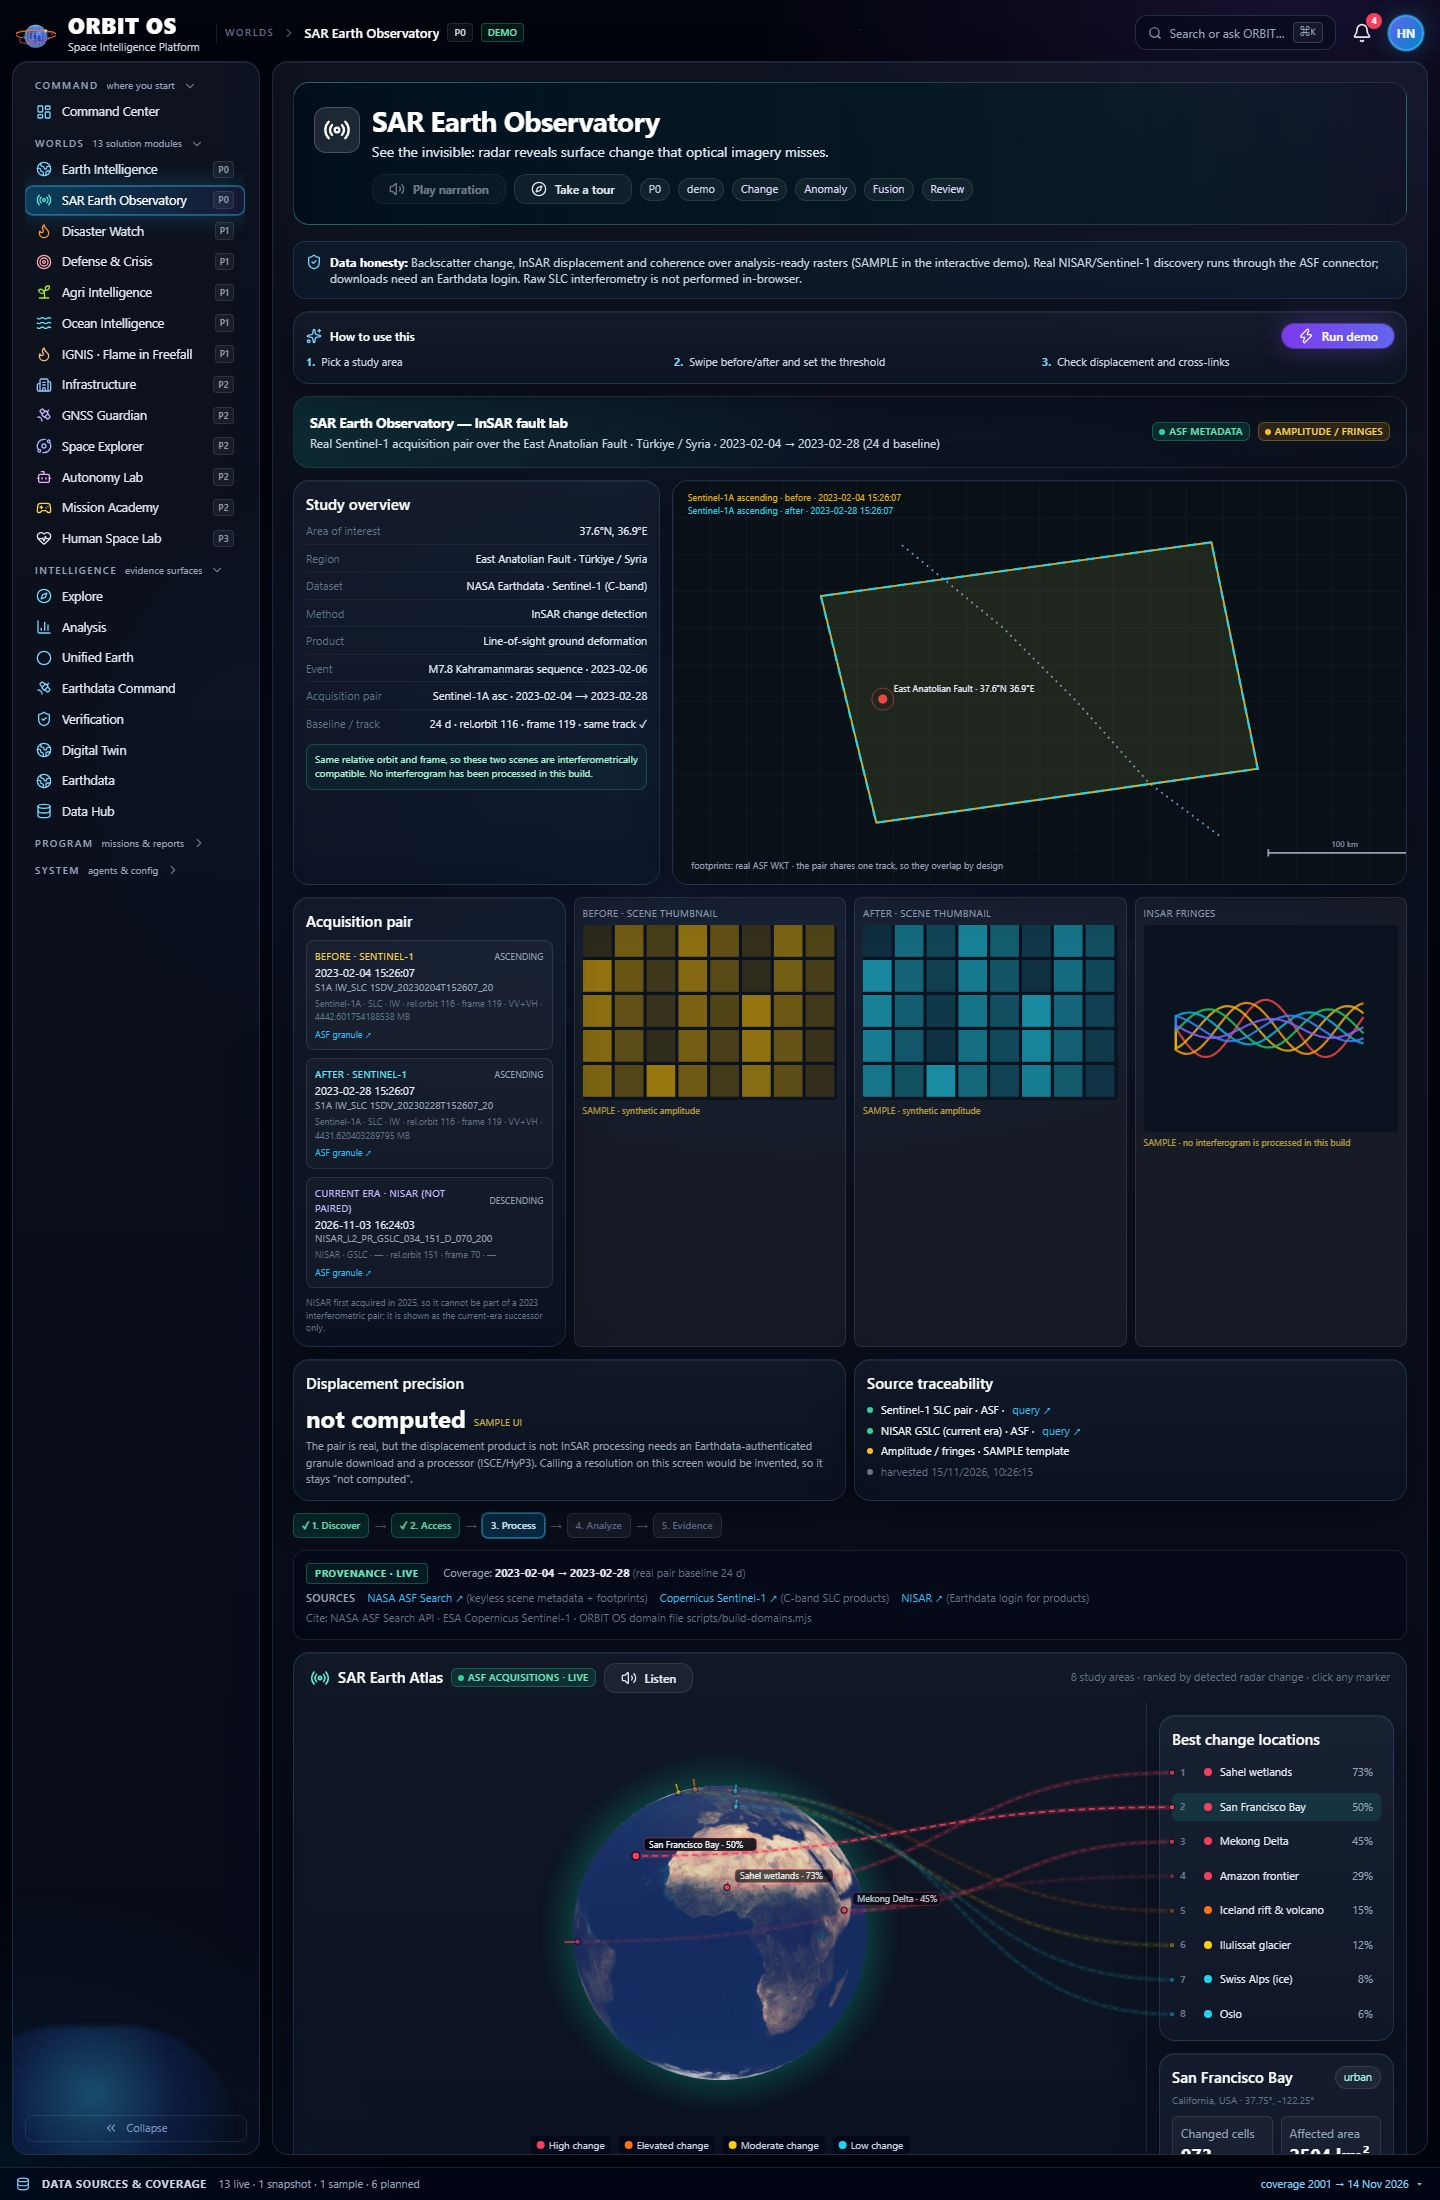
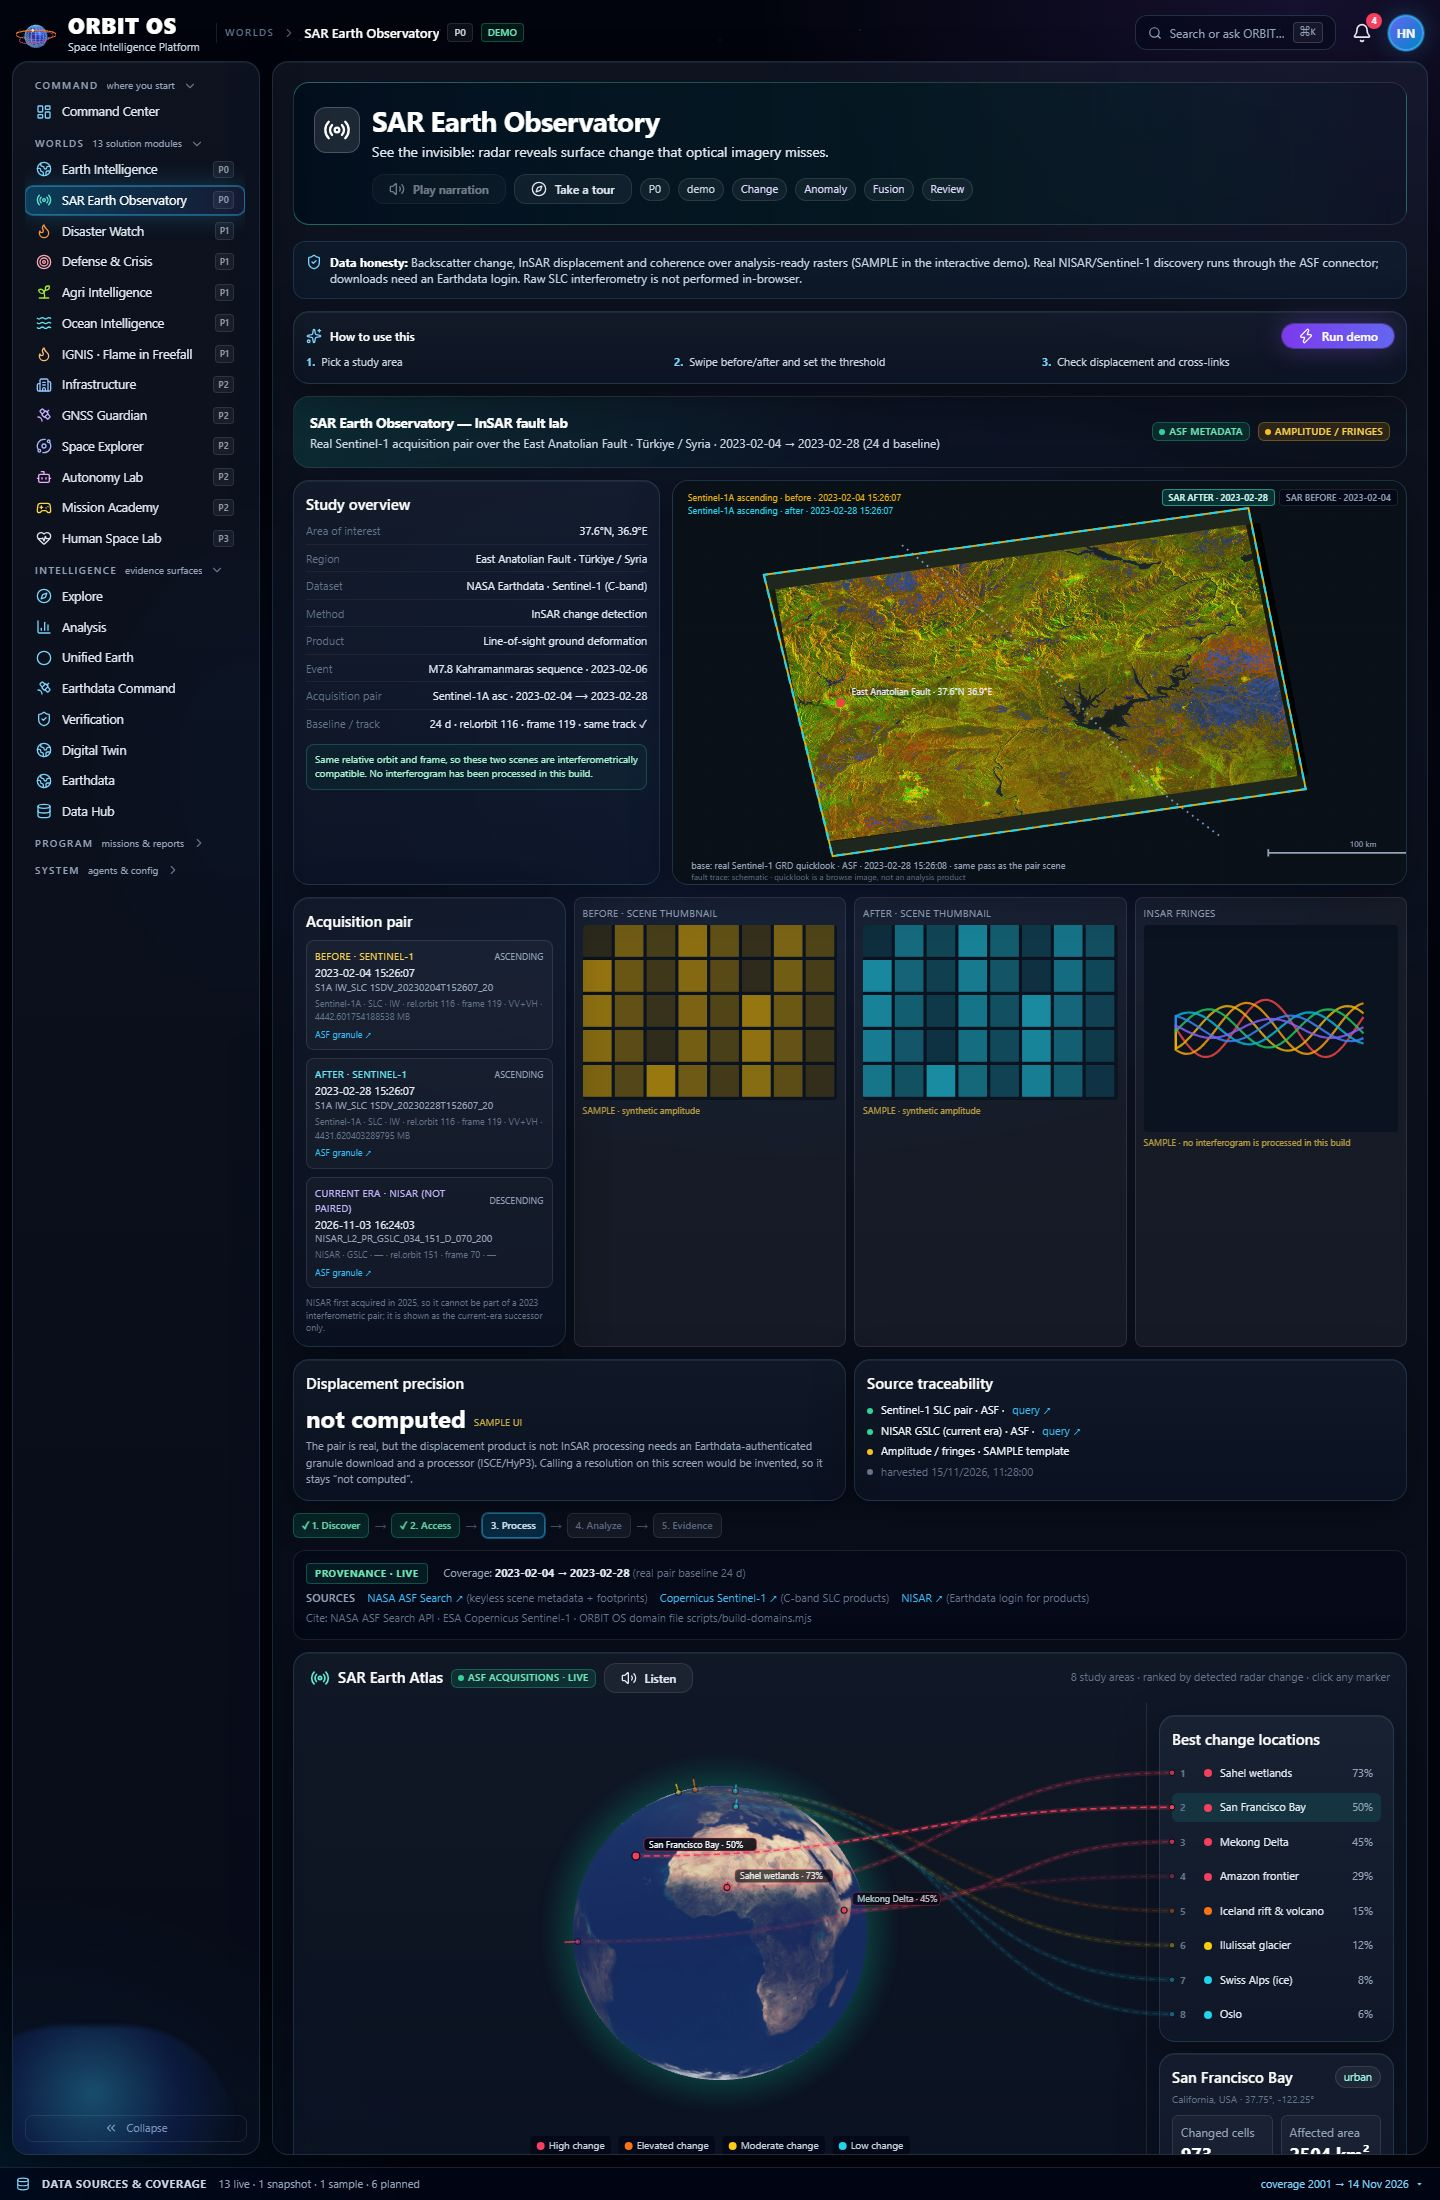
sar: real Sentinel-1 quicklook as the fault-lab map layer
The fault map was a grid with translucent sample polygons (the overlapping amber
and cyan fills blended to green, which read as fake imagery). It now shows actual
satellite imagery:

- build-domains.mjs also queries Sentinel-1 GRD_HD for the pair windows and picks
  the GRD scene whose acquisition is closest to the SLC scene used in the pair,
  storing the full-size ASF BROWSE quicklook (1024x660 JPEG) and its footprint.
  Both quicklooks now land within one second of their SLC counterpart.
- FaultMap frames the selected quicklook, clips the image to its own WKT
  footprint, and draws the pair footprints, fault trace, AOI marker and scale bar
  on top. A before/after switch swaps the imagery, and the caption states whether
  the quicklook is the same pass as the pair (it is) and that a browse image is
  not an analysis product.

Changed region(s): [[0.5, 0.2164, 0.9062, 0.4018], [0.9062, 0.9582, 0.9375, 0.9891]]

diff --git a/orbit-os/src/modules/SarFaultLab.tsx b/orbit-os/src/modules/SarFaultLab.tsx
@@ -32,6 +32,7 @@ interface Granule {
   sizeMB: number | null;
   footprint: string | null;
   thumbnail: string | null;
+  quicklook?: string | null;
   downloadUrl: string | null;
   insarGrouping: string | null;
 }
@@ -41,6 +42,7 @@ interface FaultFile {
   event: { id: string; label: string; timeUtc: string };
   provenance: { provider: string; url: string; access: string; honesty: string; note: string };
   pair: { before: Granule | null; after: Granule | null };
+  quicklooks?: { before: Granule | null; after: Granule | null };
   nisarCurrent: Granule | null;
   queries: { before: string; after: string; nisar: string };
 }
@@ -61,18 +63,24 @@ function parseFootprint(wkt?: string | null): [number, number][] {
     .filter((p) => p.length === 2 && p.every((n) => Number.isFinite(n))) as [number, number][];
 }
 
-function FaultMap({ pair }: { pair: FaultFile['pair'] }) {
+function FaultMap({ pair, quicklooks }: { pair: FaultFile['pair']; quicklooks?: FaultFile['quicklooks'] }) {
   const W = 800;
   const H = 440;
+  const [layer, setLayer] = useState<'after' | 'before'>('after');
+  const [imgFailed, setImgFailed] = useState(false);
   const before = useMemo(() => parseFootprint(pair.before?.footprint), [pair.before]);
   const after = useMemo(() => parseFootprint(pair.after?.footprint), [pair.after]);
+  const qk = quicklooks?.[layer] ?? null;
+  const qkPoly = useMemo(() => parseFootprint(qk?.footprint), [qk]);
 
   const project = useMemo(() => {
-    const all = [...before, ...after];
+    // frame the selected quicklook: it is the image the user is looking at, so
+    // it should fill the panel instead of floating in a dark corner
+    const all = qkPoly.length > 2 ? qkPoly : [...before, ...after];
     if (all.length < 3) return null;
     const lons = all.map((p) => p[0]);
     const lats = all.map((p) => p[1]);
-    const pad = 0.25;
+    const pad = (Math.max(...lons) - Math.min(...lons)) * 0.04;
     const minLon = Math.min(...lons) - pad;
     const maxLon = Math.max(...lons) + pad;
     const minLat = Math.min(...lats) - pad;
@@ -80,11 +88,11 @@ function FaultMap({ pair }: { pair: FaultFile['pair'] }) {
     // keep aspect ratio honest: scale by the larger span
     const spanLon = maxLon - minLon;
     const spanLat = maxLat - minLat;
-    const scale = Math.min((W - 40) / spanLon, (H - 60) / spanLat);
+    const scale = Math.min((W - 24) / spanLon, (H - 44) / spanLat);
     const cx = (minLon + maxLon) / 2;
     const cy = (minLat + maxLat) / 2;
     return (lon: number, lat: number): [number, number] => [W / 2 + (lon - cx) * scale, H / 2 - (lat - cy) * scale];
-  }, [before, after]);
+  }, [before, after, qkPoly, layer]);
 
   const poly = (pts: [number, number][]) => (project ? pts.map((p) => project(p[0], p[1])).map(([x, y]) => `${x.toFixed(1)},${y.toFixed(1)}`).join(' ') : '');
   const aoiPt = project ? project(AOI.lon, AOI.lat) : [W / 2, H / 2];
@@ -94,14 +102,49 @@ function FaultMap({ pair }: { pair: FaultFile['pair'] }) {
 
   return (
     <div className="relative">
-      <svg viewBox={`0 0 ${W} ${H}`} className="h-full w-full" role="img" aria-label="Real Sentinel-1 footprints over the East Anatolian Fault">
+      <div className="absolute right-2 top-2 z-10 flex gap-1">
+        {(['after', 'before'] as const).map((k) => {
+          const q = quicklooks?.[k];
+          const on = layer === k;
+          return (
+            <button
+              key={k}
+              onClick={() => { setLayer(k); setImgFailed(false); }}
+              title={q?.quicklook ? `${q.platform ?? 'Sentinel-1'} GRD quicklook · ${fmt(q.startTime)}` : 'no quicklook'}
+              className={`rounded border px-1.5 py-[1px] text-[9px] font-semibold uppercase transition ${on ? 'border-teal-400/60 bg-teal-500/20 text-teal-100' : 'border-white/10 bg-slate-950/70 text-slate-400 hover:text-white'}`}
+            >
+              SAR {k} {q?.startTime ? `· ${fmt(q.startTime).slice(0, 10)}` : ''}
+            </button>
+          );
+        })}
+      </div>
+      <svg viewBox={`0 0 ${W} ${H}`} className="h-full w-full" role="img" aria-label="Real Sentinel-1 quicklook with footprints over the East Anatolian Fault">
         <defs>
           <pattern id="sfl-grid" width="40" height="40" patternUnits="userSpaceOnUse">
             <path d="M40 0L0 0 0 40" fill="none" stroke="#16202b" strokeWidth="1" />
           </pattern>
         </defs>
         <rect width={W} height={H} fill="#0a1018" />
-        <rect width={W} height={H} fill="url(#sfl-grid)" />
+        {/* real Sentinel-1 GRD quicklook, clipped to its own footprint */}
+        {qk?.quicklook && qkPoly.length > 2 && !imgFailed && (
+          <>
+            <clipPath id="qk-clip">
+              <polygon points={poly(qkPoly)} />
+            </clipPath>
+            <image
+              href={qk.quicklook}
+              x={Math.min(...qkPoly.map((p) => project!(p[0], p[1])[0]))}
+              y={Math.min(...qkPoly.map((p) => project!(p[0], p[1])[1]))}
+              width={Math.max(...qkPoly.map((p) => project!(p[0], p[1])[0])) - Math.min(...qkPoly.map((p) => project!(p[0], p[1])[0]))}
+              height={Math.max(...qkPoly.map((p) => project!(p[0], p[1])[1])) - Math.min(...qkPoly.map((p) => project!(p[0], p[1])[1]))}
+              preserveAspectRatio="none"
+              clipPath="url(#qk-clip)"
+              opacity="0.92"
+              onError={() => setImgFailed(true)}
+            />
+          </>
+        )}
+        <rect width={W} height={H} fill="url(#sfl-grid)" opacity={qk?.quicklook && !imgFailed ? 0.15 : 1} />
 
         {/* fault trace (schematic, not a mapped geometry) */}
         <path d="M250 70 L360 160 L440 240 L520 330 L600 390" stroke="#93c5fd" strokeWidth="2" fill="none" strokeDasharray="2 5" opacity="0.75" />
@@ -121,7 +164,12 @@ function FaultMap({ pair }: { pair: FaultFile['pair'] }) {
           Sentinel-1A ascending · after · {fmt(pair.after?.startTime)}
         </text>
         <text x={aoiPt[0] + 12} y={aoiPt[1] - 8} fill="#e2e8f0" fontSize="10">East Anatolian Fault · {AOI.lat}°N {AOI.lon}°E</text>
-        <text x={20} y={H - 16} fill="#94a3b8" fontSize="10">footprints: real ASF WKT · the pair shares one track, so they overlap by design</text>
+        <text x={20} y={H - 16} fill="#94a3b8" fontSize="10">
+          {qk?.quicklook && !imgFailed
+            ? `base: real Sentinel-1 GRD quicklook · ASF · ${fmt(qk.startTime)}${pair[layer]?.startTime && Math.abs(new Date(qk.startTime!).getTime() - new Date(pair[layer]!.startTime!).getTime()) < 120000 ? ' · same pass as the pair scene' : ''}`
+            : 'footprints: real ASF WKT · the pair shares one track, so they overlap by design'}
+        </text>
+        <text x={20} y={H - 4} fill="#64748b" fontSize="9">fault trace: schematic · quicklook is a browse image, not an analysis product</text>
         <g transform={`translate(${W - 150},${H - 34})`}>
           <line x1="0" y1="0" x2={scalePx} y2="0" stroke="#94a3b8" strokeWidth="2" />
           <line x1="0" y1="-4" x2="0" y2="4" stroke="#94a3b8" strokeWidth="2" />
@@ -274,7 +322,7 @@ export function SarFaultLab() {
         </Glass>
 
         <Glass className="overflow-hidden p-0">
-          <FaultMap pair={file?.pair ?? { before: null, after: null }} />
+          <FaultMap pair={file?.pair ?? { before: null, after: null }} quicklooks={file?.quicklooks} />
         </Glass>
       </div>
 
